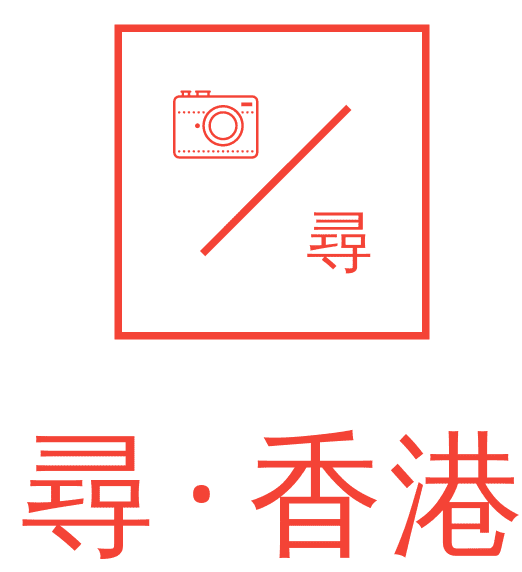
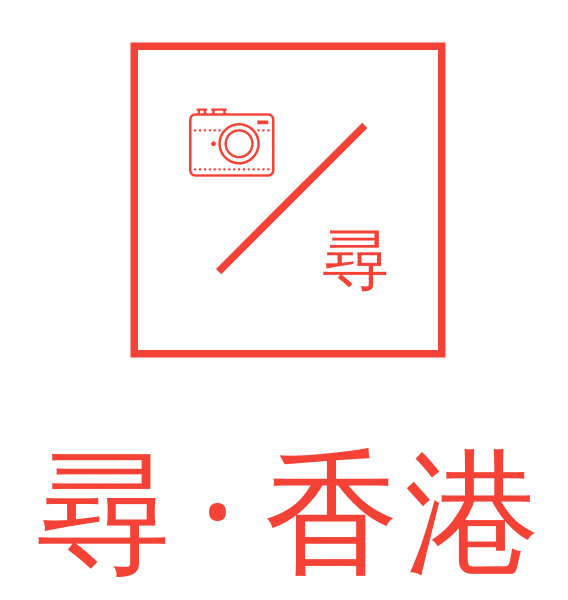
update

diff --git a/css/css01.css b/css/css01.css
@@ -1,3 +1,3 @@
-@import url('https://fonts.googleapis.com/css2?family=Noto+Sans+HK:wght@300&display=swap');@import url('https://fonts.googleapis.com/css2?family=Noto+Sans+TC:wght@300&display=swap');html{scroll-behavior:smooth;}*{margin:0;padding:0;font-family:'Noto Sans HK',sans-serif;}section.header{min-height:100vh;width:100%;background-image:linear-gradient(rgba(4,9,30,0.7),rgba(4,9,30,0.7)),url(/backgroundimg/backgroundimg.png);background-position:center;background-size:cover;position:relative;}nav{display:flex;padding:2% 6%;justify-content:space-between;align-items:center;}.logo{width:150px;}.nav-links{flex:1;text-align:right;}.nav-links ul li{list-style:none;display:inline-block;padding:8px 12px;position:relative;}.nav-links ul li a{color:#F4F2FA;text-decoration:none;font-size:16px;font-family:'Noto Sans HK',sans-serif;}.nav-links ul li::after{content:'';width:0%;height:2px;background:#F4F2FA;display:block;margin:auto;transition:0.5s;}.nav-links ul li:hover::after{width:100%;}.text-box{width:90%;color:#F4F2FA;position:absolute;top:50%;left:50%;transform:translate(-50%,-50%);text-align:center;}h.h1{font-size:35px;}p.p1{margin:10px 0 40px;font-size:16px;color:#F4F2FA;}.hero-btn{display:inline-block;text-decoration:none;color:#F4F2FA;border:1px solid #F4F2FA;padding:12px 34px;font-size:13px;background:transparent;position:relative;cursor:pointer;}.hero-btn:hover{border:1px solid #C8CEDE;background-color:#C8CEDE;transition:1s;}nav .fa{display:none;}@media(max-width:700px){.text-box h1{font-size:20px;}.nav-links ul li{display:block;margin:2.5rem 0;}.nav-links{position:absolute;background:#374551;height:100vh;width:200px;top:0;right:-200px;text-align:left;z-index:2;transition:1s;}nav .fa{display:block;color:#F4F2FA;margin:10px;font-size:22px;cursor:pointer;}.nav-links ul{padding:30px;}.header{overflow-x:hidden;}#closeicons{position:relative;bottom:-50px;right:-10px;}}.course{width:80%;margin:auto;text-align:center;padding-top:100px;}h.h2{font-size:30px;font-weight:600;}p.p2{color:#F4F2FA;font-size:14px;font-weight:300;line-height:22px;padding:10px;}.row{margin-top:5px;display:flex;justify-content:space-between;}.course-col{flex-basis:31%;background:#F4F2FA;border-radius:10px;margin-bottom:5%;padding:20px 12px;box-sizing:border-box;transition:0.5s;}h.h3{text-align:center;font-weight:600;margin:10px 0;}h.h4{text-align:center;font-weight:600;margin:10px 0;}h.h5{text-align:center;font-weight:600;margin:10px 0;}.course-col:hover{box-shadow:0 0 20px 0px rgba(0,0,0,0.2);}@media(max-width:700px){.row{flex-direction:column;}}h.h6{font-size:18px;font-weight:600;margin:10px 0;}.works{width:80%;margin:auto;text-align:center;padding-top:100px;}.works-col{flex-basis:31%;border-radius:10px;margin-bottom:5%;text-align:left;}.works-col img{width:100%;border-radius:10px;}.works-col p{padding:0;}.works-col h3{margin-top:16px;margin-bottom:15;text-align:left;}.ctu{margin:100px auto;width:80%;background-image:linear-gradient(rgba(0,0,0,0.7),rgba(0,0,0,0.7)),url(/backgroundimg/backgroundimg2.jpg);background-position:center;background-size:cover;border-radius:10px;text-align:center;padding:100px 0;}.ctu h1{color:#F4F2FA;margin-bottom:40px;padding:0;}@media(max-width:700px){.ctu h1{font-size:24px;}}.footer{width:100%;text-align:center;padding:30px 0;}.footer h4{margin-bottom:25px;margin-top:20px;font-weight:600;}.icons .fa{color:#FF384D;margin:0 13px;cursor:pointer;padding:18px 0;}p.p10{font-family:'Noto Sans TC',sans-serif;}
+@import url('https://fonts.googleapis.com/css2?family=Noto+Sans+HK:wght@300&display=swap');@import url('https://fonts.googleapis.com/css2?family=Noto+Sans+TC:wght@300&display=swap');html{scroll-behavior:smooth}*{margin:0;padding:0;font-family:'Noto Sans HK',sans-serif}section.header{min-height:100vh;width:100%;background-image:linear-gradient(rgba(4,9,30,0.7),rgba(4,9,30,0.7)),url(/backgroundimg/backgroundimg.png);background-position:center;background-size:cover;position:relative}nav{display:flex;padding:2% 6%;justify-content:space-between;align-items:center}.logo{width:150px}.nav-links{flex:1;text-align:right}.nav-links ul li{list-style:none;display:inline-block;padding:8px 12px;position:relative}.nav-links ul li a{color:#F4F2FA;text-decoration:none;font-size:16px;font-family:'Noto Sans HK',sans-serif}.nav-links ul li::after{content:'';width:0%;height:2px;background:#F4F2FA;display:block;margin:auto;transition:0.5s}.nav-links ul li:hover::after{width:100%}.text-box{width:90%;color:#F4F2FA;position:absolute;top:50%;left:50%;transform:translate(-50%,-50%);text-align:center}h.h1{font-size:35px}p.p1{margin:10px 0 40px;font-size:16px;color:#F4F2FA}.hero-btn{display:inline-block;text-decoration:none;color:#F4F2FA;border:1px solid #F4F2FA;padding:12px 34px;font-size:13px;background:transparent;position:relative;cursor:pointer}.hero-btn:hover{border:1px solid #C8CEDE;background-color:#C8CEDE;transition:1s}nav .fa{display:none}@media(max-width:700px){.text-box h1{font-size:20px}.nav-links ul li{display:block;margin:2.5rem 0}.nav-links{position:absolute;background:#374551;height:100vh;width:200px;top:0;right:-200px;text-align:left;z-index:2;transition:1s}nav .fa{display:block;color:#F4F2FA;margin:10px;font-size:22px;cursor:pointer}.nav-links ul{padding:30px}.header{overflow-x:hidden}#closeicons{position:relative;bottom:-50px;right:-10px}}.course{width:80%;margin:auto;text-align:center;padding-top:100px}h.h2{font-size:30px;font-weight:600}p.p2{color:#F4F2FA;font-size:14px;font-weight:300;line-height:22px;padding:10px}.row{margin-top:5px;display:flex;justify-content:space-between}.course-col{flex-basis:31%;background:#F4F2FA;border-radius:10px;margin-bottom:5%;padding:20px 12px;box-sizing:border-box;transition:0.5s}h.h3{text-align:center;font-weight:600;margin:10px 0}h.h4{text-align:center;font-weight:600;margin:10px 0}h.h5{text-align:center;font-weight:600;margin:10px 0}.course-col:hover{box-shadow:0 0 20px 0px rgba(0,0,0,0.2)}@media(max-width:700px){.row{flex-direction:column}}h.h6{font-size:18px;font-weight:600;margin:10px 0}.works{width:80%;margin:auto;text-align:center;padding-top:100px}.works-col{flex-basis:31%;border-radius:10px;margin-bottom:5%;text-align:left}.works-col img{width:100%;border-radius:10px}.works-col p{padding:0}.works-col h3{margin-top:16px;margin-bottom:15;text-align:left}.ctu{margin:100px auto;width:80%;background-image:linear-gradient(rgba(0,0,0,0.7),rgba(0,0,0,0.7)),url(/backgroundimg/backgroundimg2.jpg);background-position:center;background-size:cover;border-radius:10px;text-align:center;padding:100px 0}.ctu h1{color:#F4F2FA;margin-bottom:40px;padding:0}@media(max-width:700px){.ctu h1{font-size:24px}}.footer{width:100%;text-align:center;padding:30px 0}.footer h4{margin-bottom:25px;margin-top:20px;font-weight:600}.icons .fa{color:#FF384D;margin:0 13px;cursor:pointer;padding:18px 0}p.p10{font-family:'Noto Sans TC',sans-serif}.img-row-padding{margin-bottom:128px}.img-settings{width:100%}.img-row-padding img{margin-bottom:12px}
 
 /*LookForHongKong Studio*/

diff --git a/index.html b/index.html
@@ -8,7 +8,7 @@
         <meta name="viewport" content="width=device-width, initial-scale=1.0">
         <meta name="demonstration" content="尋·香港">
         <title>尋·香港</title>
-        <link rel="stylesheet" href="./css/css00.css">
+        <link rel="stylesheet" href="./css/css01.css">
         <link rel="stylesheet" href="https://cdn.jsdelivr.net/npm/@fortawesome/fontawesome-free@5.15.3/css/fontawesome.min.css">
         <link rel="stylesheet" href="path/to/font-awesome/css/font-awesome.min.css">
         <script src="https://kit.fontawesome.com/e016628e5a.js" crossorigin="anonymous"></script>
@@ -21,7 +21,7 @@
     <nav>
 <!--logo-->        
     <div class="logo">
-        <a href="https://www.lookforhk1210.tk" title="尋·香港"><img src="./img/logo_transparent1.png" alt="logo" height="180px" width="">
+        <a href="https://www.lookforhk1210.tk" title="尋·香港"><img src="./img/logo_transparent.png" alt="logo" height="180px" width="">
         </a>      
     </div>
     <div class="nav-links" id="navLinks">
@@ -57,6 +57,7 @@
     <p class="p2">
 
     </p>
+
     <div class="row">
         <div class="course-col">
             <h class="h3">
@@ -103,9 +104,10 @@
         影集
     </h>
     <p class="p6">
-        香港不同地方
+        香港影集
     </p>
     <!--<div class="row1">-->
+        <!--
     <div class="row">
         <div class="works-col">
            <img src="./img/photo1.jpeg" alt="粉嶺">
@@ -141,6 +143,21 @@
             </div>
          </div>
     </div>
+-->
+
+<!--img-->
+<div class="img-row-padding">
+    <div class="img-half">
+        <img src="./img/img1.jpg" class="img-settings">
+        <img src="./img/img2.jpg" class="img-settings">
+        <img src="./img/img3.jpg" class="img-settings">
+        <img src="./img/img4.jpg" class="img-settings">
+        <img src="./img/img5.jpg" class="img-settings">
+        <img src="img/img6.jpg" class="img-settings">
+        <img src="./img/img7.jpg" class="img-settings">
+    </div>
+</div>
+
 </section>
 
 <!--Call To Us-->
